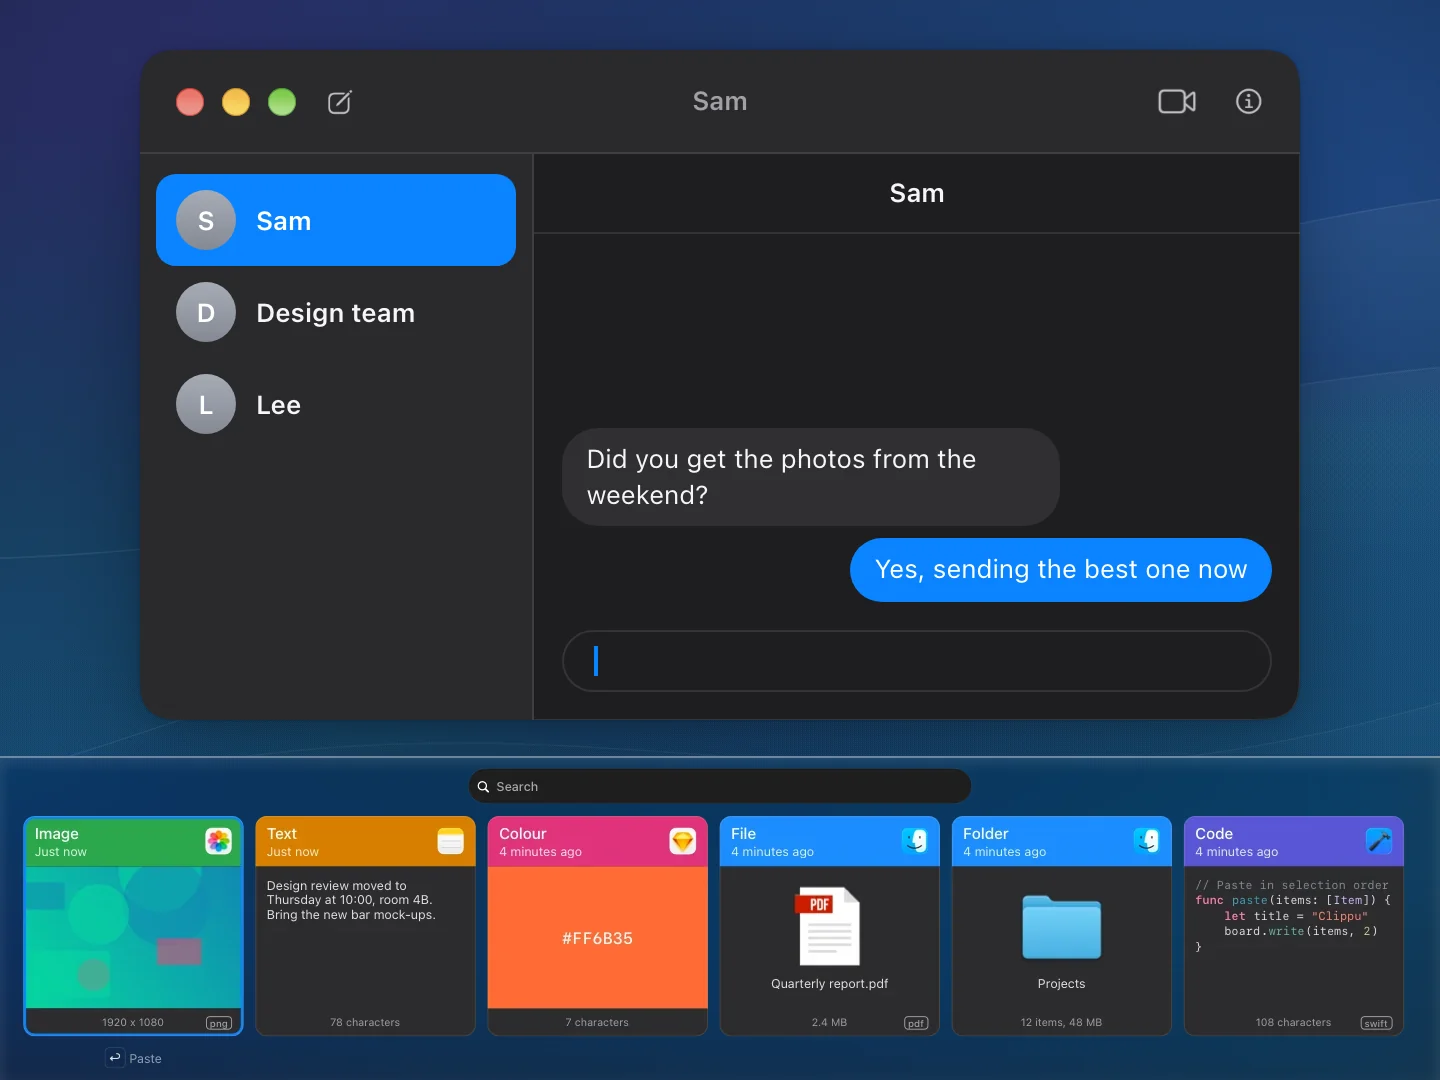
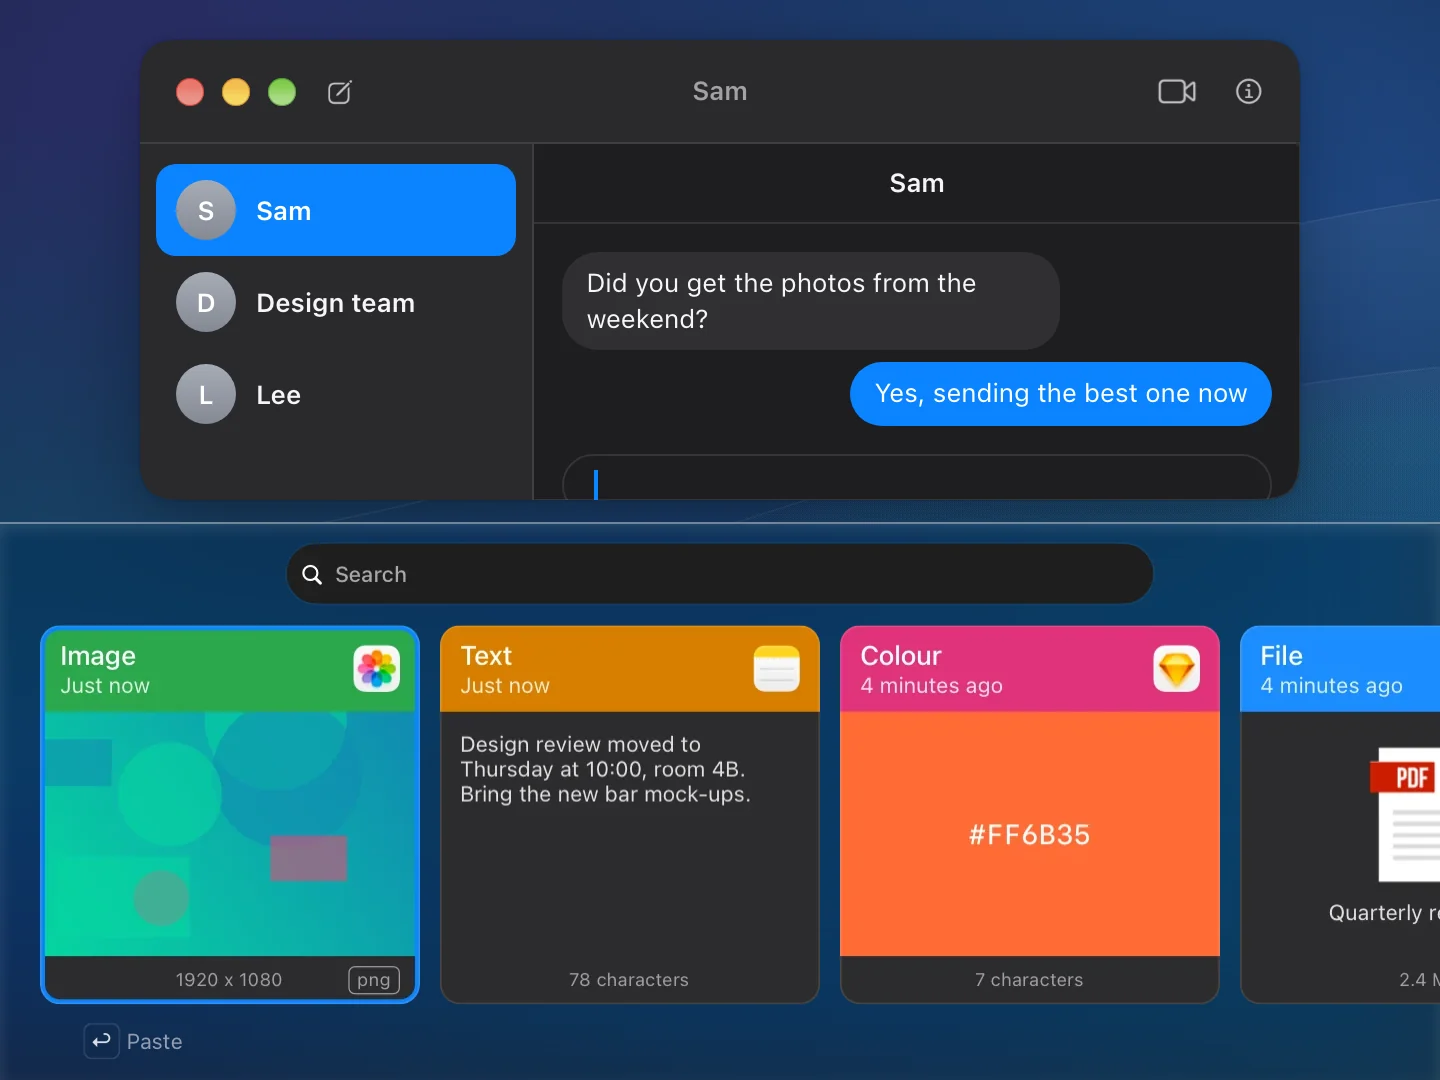
feat(clippu): readable scenes, scope list, History Limits feature, dark Privacy
Bigger bar crops, furniture paste-in-order example, Shortcuts moves to the FAQ.

diff --git a/content/apps/clippu/_index.md b/content/apps/clippu/_index.md
@@ -63,13 +63,12 @@ summary = "Narrow the search to one kind, one file type or one app."
 body = """
 Type a scope word, then your search:
 
-- `txt`, `url`, `code`, `colour`, `img` or `file` for one kind
-- a file extension, such as `png` or `pdf`
-- an app name, such as `safari`
+- **Kind:** `txt`, `url`, `code`, `colour`, `img`, `file`
+- **File type:** `png`, `jpeg`, `pdf`
+- **App:** `safari`, `notes`, `mail`
 
 The scope shows as a capsule in the search field.
 """
-
 image = "images/website-scopes_1440x1080.webp"
 alt = "The Safari scope shown as a capsule in the search field, with Safari items only"
 [[features]]
@@ -103,8 +102,15 @@ body = """
 image = "images/website-privacy_1440x1080.webp"
 alt = "The Privacy tab in Settings listing ignored applications"
 [[features]]
-title = "Shortcuts Integration"
-summary = "Paste an item, delete an item or clear your history from your own shortcuts."
+title = "History Limits"
+summary = "Choose how long Clippu keeps your history and how much space it can use."
+body = """
+- **Keep history for** a day, a week, a month, a year or forever.
+- **Storage limit** from 1 GB to 100 GB. The oldest items go first.
+- **Clear History** removes everything, and [[⌘ Z]] brings it back.
+"""
+image = "images/website-history_1440x1080.webp"
+alt = "The History section of Clippu Settings with the keep history and storage limit sliders"
 
 [[shortcuts]]
 group = "Anywhere"
@@ -149,6 +155,10 @@ answer = "Until it reaches the limits you set in Settings: a maximum age and a m
 [[faq]]
 question = "Does it show a Dock icon?"
 answer = "No. Clippu works in the background and opens with your shortcut. A menu bar icon is optional."
+
+[[faq]]
+question = "Can I automate it?"
+answer = "Yes. Apple Shortcuts can paste an item, delete an item or clear your history."
 
 [[faq]]
 question = "When can I get it?"
